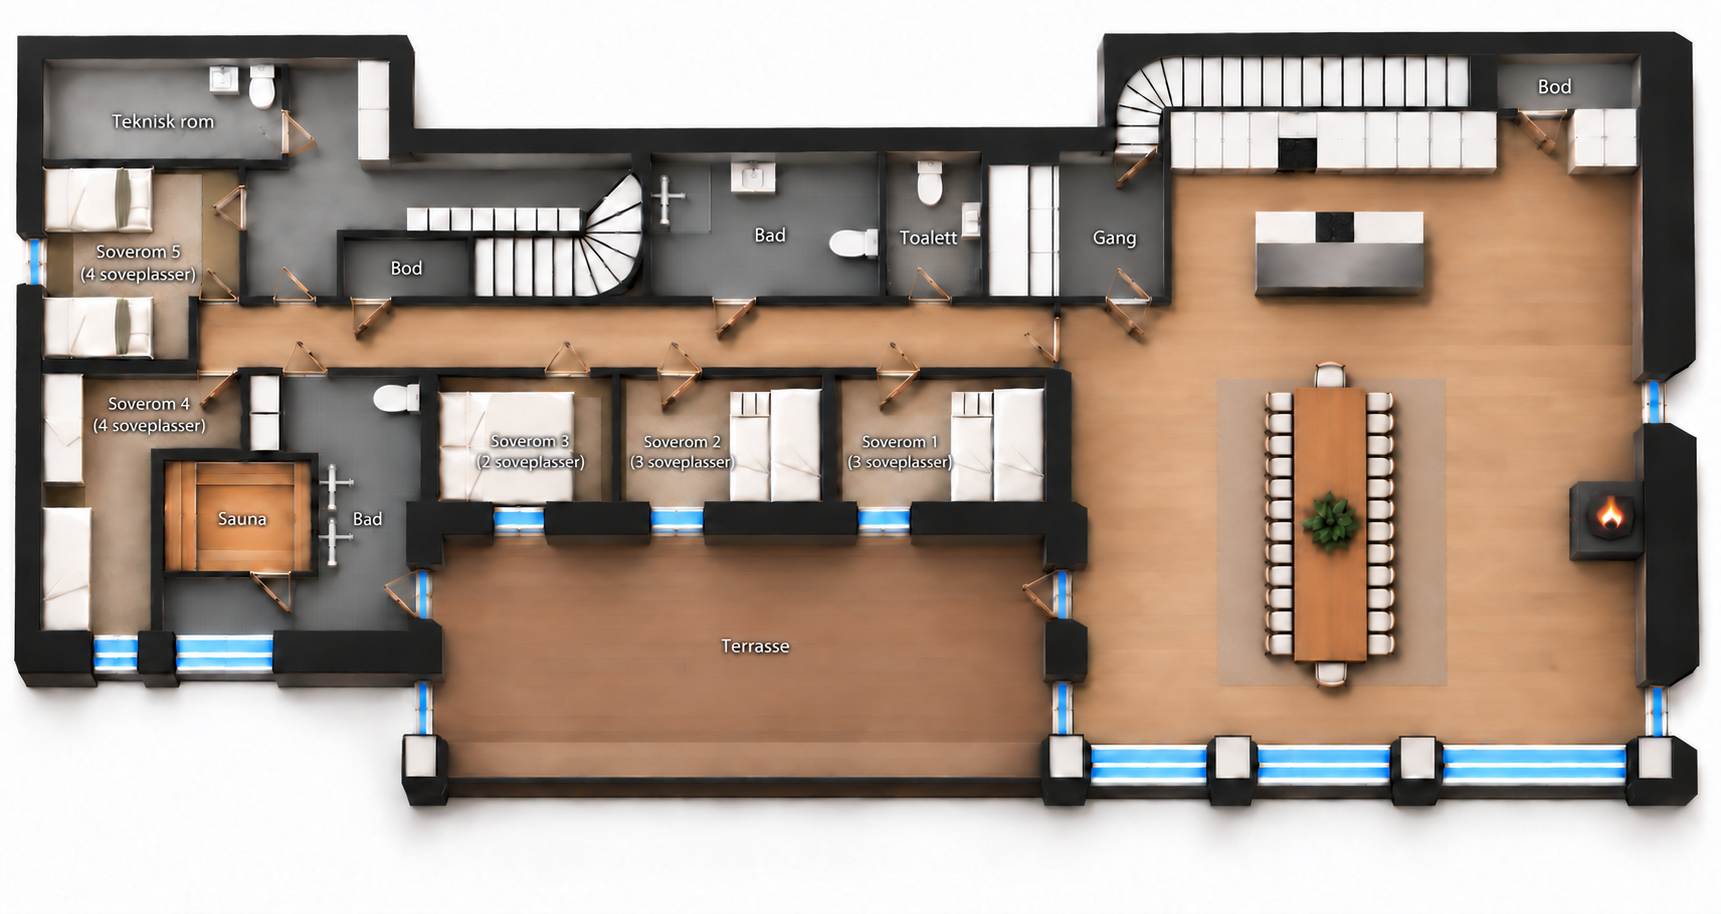
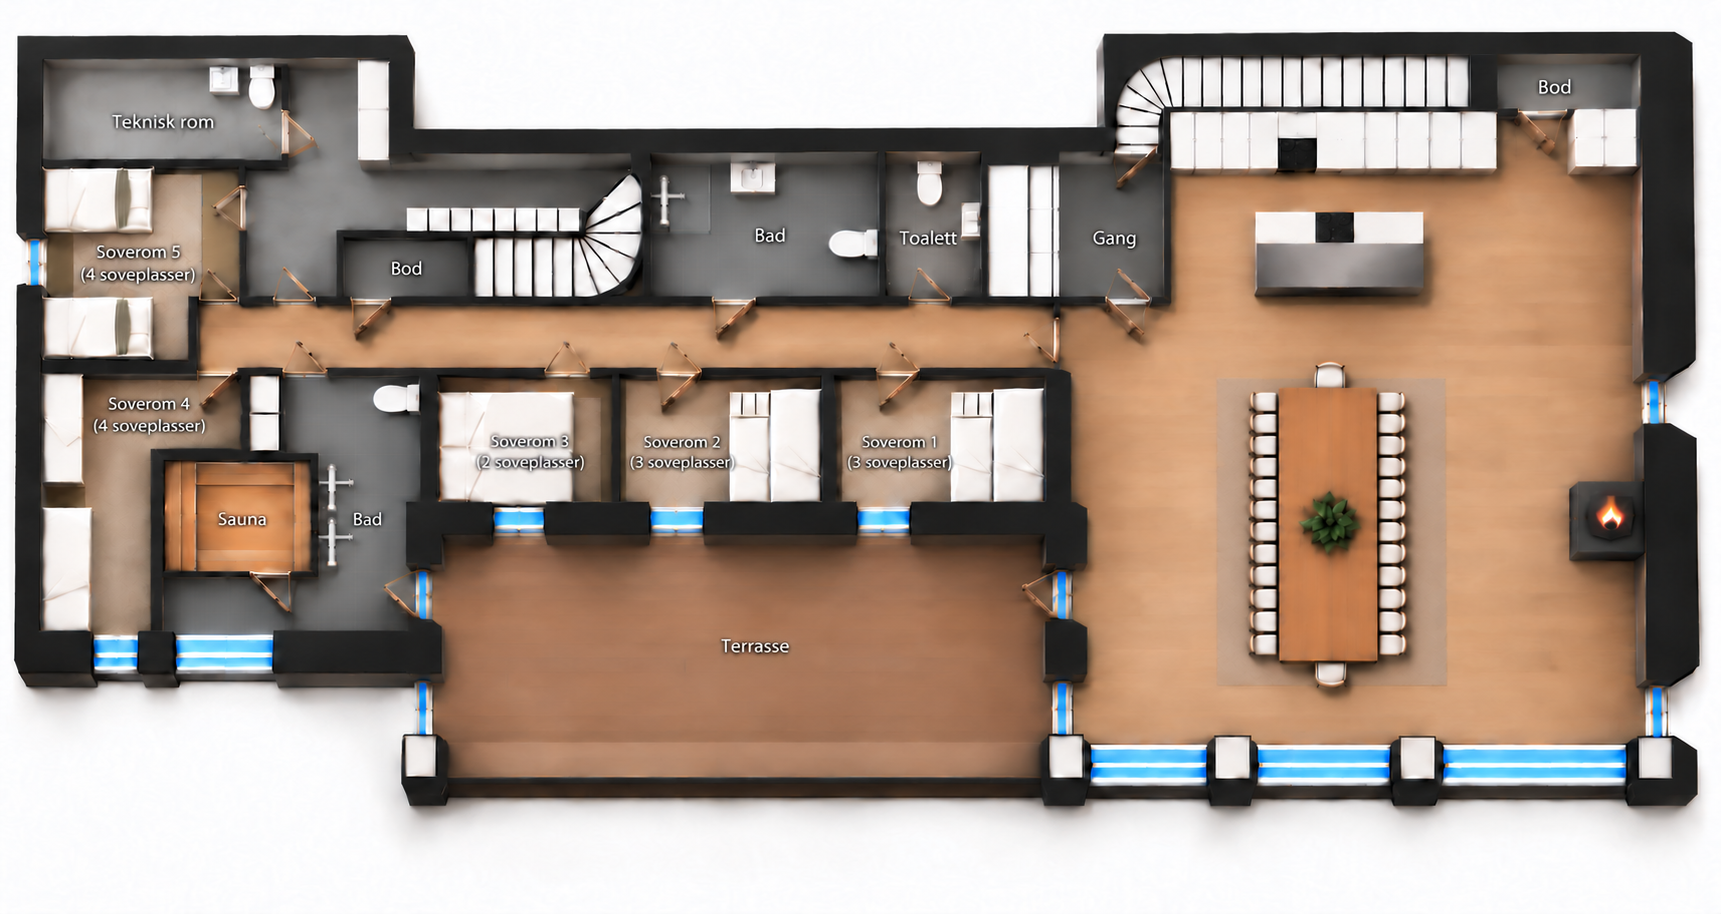
Switch floor plan labels with site language and keep 26-seat larger table

diff --git a/src/components/FloorPlans.tsx b/src/components/FloorPlans.tsx
@@ -6,11 +6,14 @@ import type { Language } from "./useSiteLanguage";
 import mainFloor from "../../public/images/floor-plan-main.png";
 import lowerFloor from "../../public/images/floor-plan-lower.png";
 import loftFloor from "../../public/images/floor-plan-loft.png";
+import mainFloorEnglish from "../../public/images/floor-plan-main-en.png";
+import lowerFloorEnglish from "../../public/images/floor-plan-lower-en.png";
+import loftFloorEnglish from "../../public/images/floor-plan-loft-en.png";
 
 const floors = [
-  { id: "lower", nb: "Underetasjen", en: "Lower floor", image: lowerFloor },
-  { id: "main", nb: "Hovedetasjen", en: "Main floor", image: mainFloor },
-  { id: "loft", nb: "Loftet", en: "Loft", image: loftFloor },
+  { id: "lower", nb: "Underetasjen", en: "Lower floor", image: lowerFloor, imageEnglish: lowerFloorEnglish },
+  { id: "main", nb: "Hovedetasjen", en: "Main floor", image: mainFloor, imageEnglish: mainFloorEnglish },
+  { id: "loft", nb: "Loftet", en: "Loft", image: loftFloor, imageEnglish: loftFloorEnglish },
 ];
 
 export function FloorPlans({ language }: { language: Language }) {
@@ -18,6 +21,7 @@ export function FloorPlans({ language }: { language: Language }) {
   const floor = floors.find((item) => item.id === selected) ?? floors[1];
   const nb = language === "nb";
   const name = nb ? floor.nb : floor.en;
+  const planImage = nb ? floor.image : floor.imageEnglish;
 
   return <section className="retreat-floor-plans" aria-labelledby="floor-plans-title">
     <div className="retreat-floor-plans-heading">
@@ -28,10 +32,10 @@ export function FloorPlans({ language }: { language: Language }) {
       {floors.map((item, index) => <button key={item.id} type="button" aria-pressed={selected === item.id} aria-controls="floor-plan-view" onClick={() => setSelected(item.id)}><span>0{index + 1}</span>{nb ? item.nb : item.en}</button>)}
     </div>
     <figure id="floor-plan-view" className="retreat-floor-plan-view">
-      <a href={floor.image.src} target="_blank" rel="noreferrer" aria-label={nb ? `Åpne hele plantegningen: ${name}` : `Open full floor plan: ${name}`}>
-        <Image key={floor.id} src={floor.image} alt={nb ? `Plantegning – ${name}, Turu Crown` : `Floor plan – ${name}, Turu Crown`} unoptimized sizes="(max-width: 900px) 100vw, 90vw" />
+      <a href={planImage.src} target="_blank" rel="noreferrer" aria-label={nb ? `Åpne hele plantegningen: ${name}` : `Open full floor plan: ${name}`}>
+        <Image key={`${floor.id}-${language}`} src={planImage} alt={nb ? `Plantegning – ${name}, Turu Crown` : `Floor plan – ${name}, Turu Crown`} unoptimized sizes="(max-width: 900px) 100vw, 90vw" />
       </a>
-      <figcaption><span aria-live="polite">{name}</span><a href={floor.image.src} target="_blank" rel="noreferrer">{nb ? "SE HELE PLANTEGNINGEN" : "VIEW FULL FLOOR PLAN"} ↗</a></figcaption>
+      <figcaption><span aria-live="polite">{name}</span><a href={planImage.src} target="_blank" rel="noreferrer">{nb ? "SE HELE PLANTEGNINGEN" : "VIEW FULL FLOOR PLAN"} ↗</a></figcaption>
     </figure>
   </section>;
 }

diff --git a/docs/floor-plans.md b/docs/floor-plans.md
@@ -1,5 +1,35 @@
 # Three floor plans
 
+## English plan labels and slightly larger table, 29 October 2026
+
+`FloorPlans.tsx` now chooses both its plan image and full-image link from the
+active site language. English PNGs are `public/images/floor-plan-main-en.png`,
+`public/images/floor-plan-lower-en.png`, and `public/images/floor-plan-loft-en.png`.
+Norwegian PNGs retain the corresponding names without `-en`. Built-in imagegen
+translated the image labels, including Bathroom, Bedroom, Sleeps, Storage,
+Hallway, Terrace, Sleeping alcove and Mezzanine.
+
+The lower-floor table is slightly wider while keeping its shorter length and
+island clearance. The final Norwegian AND English versions were visually checked
+and raw-pixel sampled: 12 white chair groups on each long side plus one chair at
+each end = 26. Rejected longer-table drafts changed the chair count and are unused.
+
+Final table size prompt:
+
+Use case: precise-object-edit. The supplied plan already has EXACTLY12chairs each long side plus1each end=26, which is correct. Make ONLY the dining TABLETOP a little WIDER, about12percent wider horizontally, keeping its LENGTH and TOP/BOTTOM END POSITIONS EXACTLY UNCHANGED. Do not make table longer; that incorrectly adds chairs. Keep all24existing sidechairs, exactly12left and12right, in their SAME y positions; only shift the left row slightly LEFT and the right row slightly RIGHT to accommodate wider tabletop, without adding or deleting any chair. Keep both endchairs, centered. Result is a visibly slightly larger WIDER table, SAME26chairs. Never add a13th sidechair. Keep all12existing sidechairs per side at their same heights. Keep kitchen-island clearance unchanged and generous. Retain centered plant and rug, widening rug slightly only if needed. All room labels, capacities, geometry, walls, fixtures, kitchen, beds, stairs, doors/windows, fireplace, terrace, colors, materials and whole image/framing remain unchanged. Only horizontal tabletop width and corresponding tiny horizontal chair-row offsets change. No crop, no resize, no annotations.
+
+Main-floor English prompt:
+
+Use case: text-localization ONLY. Translate all Norwegian text in supplied MAIN FLOOR plan to English, leaving all non-text pixels, room geometry, walls, doors, windows, furniture, beds, stairs, layout, colors and full framing unchanged. Exact replacements: 'Soverom 5' -> 'Bedroom 5'; '(2 soveplasser)' -> '(Sleeps 2)'; 'Soverom 6' -> 'Bedroom 6'; '(3 soveplasser)' -> '(Sleeps 3)'; 'Bad' -> 'Bathroom'; 'Sauna' stays 'Sauna'; 'WC' -> 'Toilet'; 'Skibod/Garasjebod' -> 'Ski storage / Garage storage' wrapping inside same room; 'Gang' -> 'Hallway' (both occurrences); 'Bod' -> 'Storage'; 'Spisestue' -> 'Dining room'; 'Stue/Kjøkken' -> 'Living room / Kitchen'; 'Terrasse' -> 'Terrace'; all 'åpen himling' -> 'Open to above'. Preserve all labels in corresponding exact original positions, clean white sans-serif same visible size and subtle dark shadow, wrap longer English labels where necessary without covering walls or changing objects. No Norwegian text should remain. No changes to architecture or furnishings, no crop or resize, full original drawing.
+
+Loft English prompt:
+
+Use case: text-localization ONLY. Translate room labels in supplied complete LOFT floor plan to English. Exact replacements: 'Soverom 9' -> 'Bedroom 9'; 'Soverom 8' -> 'Bedroom 8'; both '(2 soveplasser)' -> '(Sleeps 2)'; 'Bad' -> 'Bathroom'; 'Alkove 10' -> 'Sleeping alcove 10'; '(4 soveplasser)' -> '(Sleeps 4)'; living-room 'Loft' -> 'Loft lounge'; separate upper-right 'Hems' -> 'Mezzanine'. Same clean white sans-serif size and subtle dark shadow, wrap labels so they fit safely. Absolutely no other modifications: preserve full room/wall geometry, four window groups, all beds, doors, bathroom, sofa, table tennis, main stair and short glass railing; preserve separate upper-right mezzanine with completed room and HORIZONTALLY RUNNING stair (vertical tread lines) and OPEN LEFT STAIR ENTRANCE (no short blocking wall). Keep room contents, scale, colors, exact full framing. No added/removed furniture or features, no crop or resize. All labels in English, unchanged plan.
+
+Lower-floor English prompt:
+
+Use case: text-localization ONLY. Translate ALL labels in the supplied LOWER FLOOR plan from Norwegian to English with no changes to any other details. Exact replacements: 'Teknisk rom' -> 'Utility room'; 'Soverom 1' -> 'Bedroom 1', '(3 soveplasser)' -> '(Sleeps 3)'; 'Soverom 2' -> 'Bedroom 2', '(3 soveplasser)' -> '(Sleeps 3)'; 'Soverom 3' -> 'Bedroom 3', '(2 soveplasser)' -> '(Sleeps 2)'; 'Soverom 4' -> 'Bedroom 4', '(4 soveplasser)' -> '(Sleeps 4)'; 'Soverom 5' -> 'Bedroom 5', '(4 soveplasser)' -> '(Sleeps 4)'; BOTH 'Bod' labels -> 'Storage'; BOTH actual 'Bad' labels -> 'Bathroom'; 'Sauna' stays 'Sauna'; 'Toalett' -> 'Toilet'; 'Gang' -> 'Hallway'; 'Terrasse' -> 'Terrace'. Keep same clear white sans-serif lettering size and subtle shadow, original room positions, use line breaks to fit safely. Preserve full drawing, exact walls/windows/doors/stairs, every bed/fixture/furniture, kitchen island and dining table size/position. CRITICAL table currently has exactlyTWELVEchairs each long side plusONEtop+ONEbottom=26; keep every existing chair in exact position, DO NOT redraw table or add/remove/resize any chair, translation is the only task. Keep wider table and generous island gap unchanged. No Norwegian words remain, all room labels English. Same dimensions/full framing, no crop/resize, no new features or annotations.
+
 ## Shorter lower-floor table with 26 seats, 29 October 2026
 
 Built-in imagegen updated `public/images/floor-plan-lower.png` from the owner's

diff --git a/README.md b/README.md
@@ -31,7 +31,7 @@ The selected website design is the multi-page mountain-retreat presentation:
 - `/materials` — wood, surface treatment, and interior material story.
 - `/gallery` — 67 photos filtered by Alle, Hytta, Oppholdsrom and Soverom (All, Cabin, Living space and Bedrooms in English), with full-screen viewing. Source originals are unchanged, except for the requested sunny ski photo edit. See `docs/organized-gallery.md` for source folders and original-photo hosting requirements.
 - `/location` — maps, driving distances, public transport, and arrival guidance.
-- `/3d-tour` — three floor plans in a shared natural-material style, with floor selection and full-image viewing above the interactive Matterport walkthrough. See `docs/floor-plans.md` for sources and rendering notes.
+- `/3d-tour` — three floor plans in a shared natural-material style, with Norwegian/English labels inside the drawings, floor selection and full-image viewing above the interactive Matterport walkthrough. See `docs/floor-plans.md` for sources and rendering notes.
 - `/meetings` — company retreats and meeting facilities.
 - `/turufjell` — outdoor experiences, with an activity guide at `/turufjell/activities`.
 - `/booking` — calendar, combined linen and towels, price breakdown and direct enquiry.
